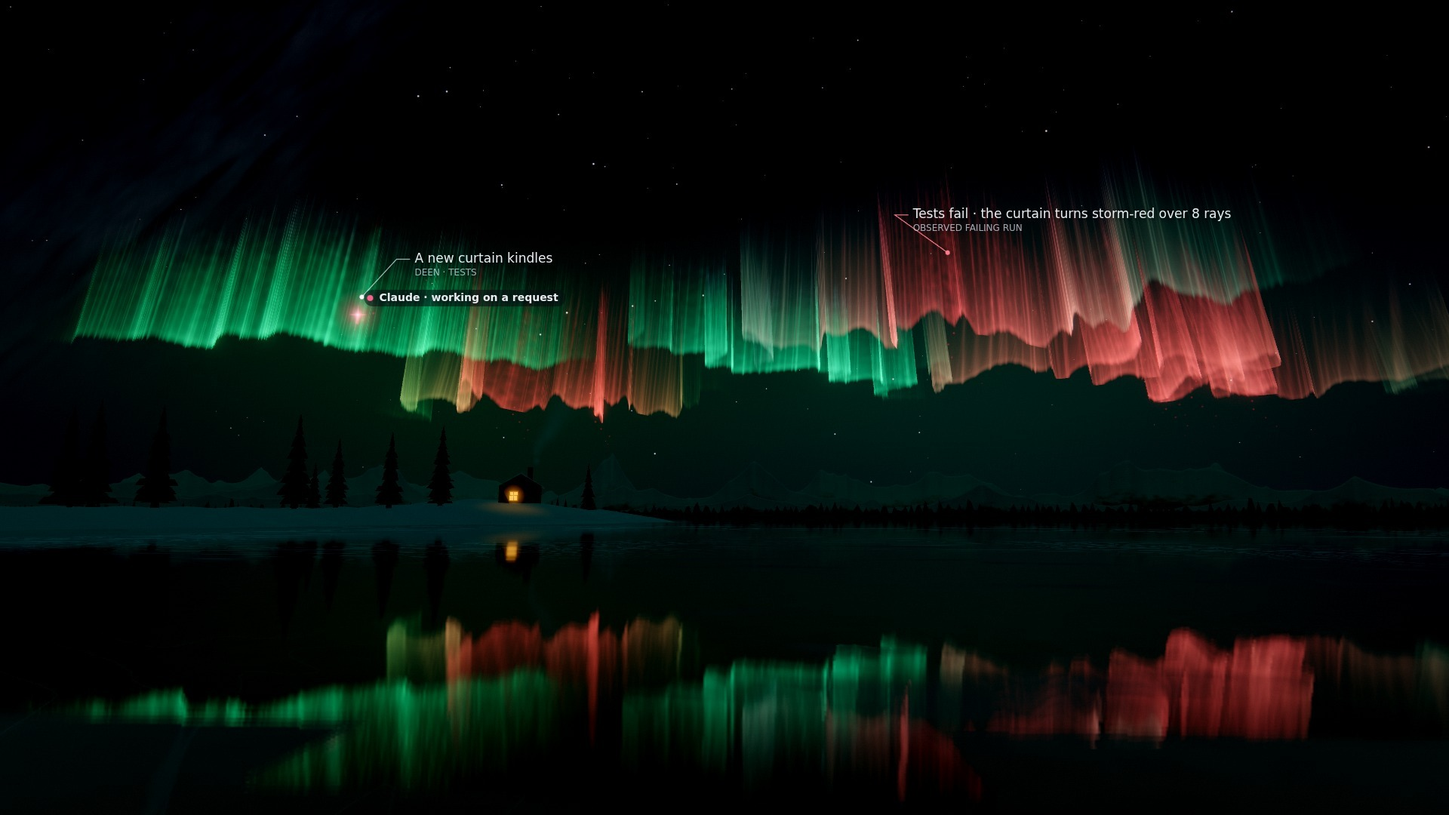
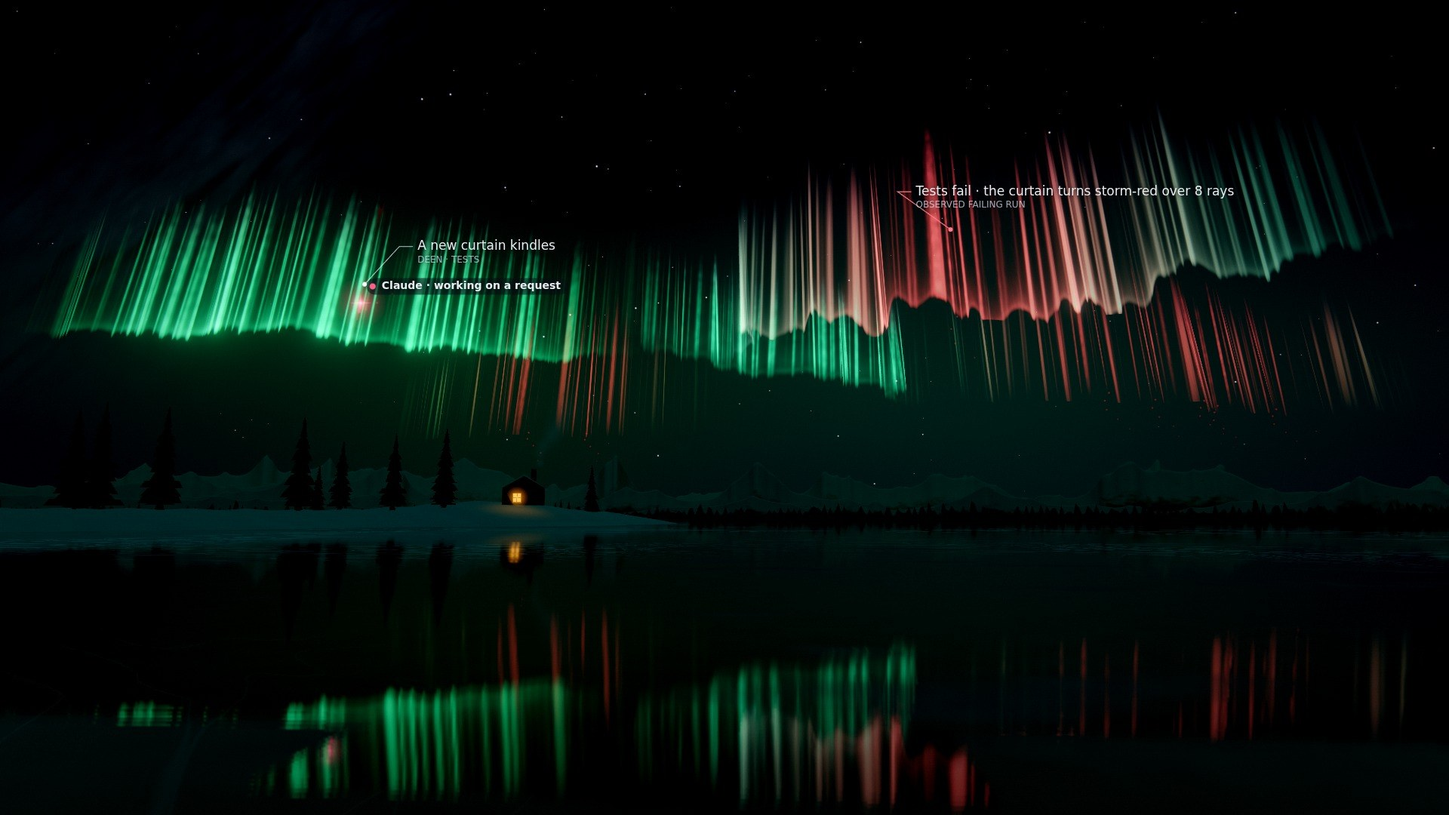
docs(aurora): the lower edges, the field lines, the corona and the mountains; new stills and timings
A section on the lower edges: what the false ridges were (a lit slab above each edge, not a dark band
below it, measured with the curtains hidden) and what they are now. The curtain's light, the field
lines (gentle arcs, a trace at rest, the wakes behind a wisp), the corona without a crown and the
far mountains' massifs and rock are described as built; all nine stills are rendered again from the
final code (the same commands); the GPU table compares this code with the first version measured in
the same session; the worlds qualification is the new run. What is not done says plainly what still
reads wrong: the plain sky under a stacked curtain's edge is still a darker strip, the curtains give
less light overall and the reflection is dimmer, the corona may read as sparse spokes, and in the
recorded projects the field lines are effectively invisible.

diff --git a/docs/worlds/aurora.md b/docs/worlds/aurora.md
@@ -16,28 +16,29 @@ Everything described here is implemented unless marked *planned*.
 ![Self at the end of its session](aurora-hero.jpg)
 
 *Self (92 files, a 20-minute recorded session) at its end: its curtains across the sky in greens and
-teals on its harmony, their rays reaching high with violet at their tops, the faint field lines of its dependencies
-above them, the cabin on the point among its spruces, and the whole night mirrored in the ice. Every still on this
+teals on its harmony, each with a bright lower edge and its rays reaching high with violet at their tops, the cabin on
+the point among its spruces, and the whole night mirrored in the ice. Every still on this
 page: GPU (AMD Radeon iGPU through WSL2 D3D12, ANGLE's EGL backend), the render lab on the film path at quality 0,
 1920×1080 (portraits 1080×1920), with Cinematic labels; one was cropped (stated below).*
 
 | | |
 |---|---|
 | ![A vertical frame](aurora-portrait.jpg) | ![The corona](aurora-corona.jpg) |
-| Lumen Recipes (17 files; six curtains, its tests among them) at the end, 9:16: a tall sky over its reflection, the cabin with the two lanterns its verified milestones left, their light doubled in the ice | The recovery, 2.5 s on, 9:16: the sky gathers into a corona overhead (rays converging on the magnetic zenith, green at their foot, magenta toward the zenith), the camera looks up, the land and the snow light with it; in Lumen the same moment earns the breakup |
+| Lumen Recipes (17 files; six curtains, its tests among them) at the end, 9:16: a tall sky over its reflection, the cabin with the two lanterns its verified milestones left, their light doubled in the ice | The recovery, 2.5 s on, 9:16: the sky gathers into a corona overhead (rays of uneven length converging on the magnetic zenith, green at their foot, magenta toward the zenith, their lower ends dissolving into the dark), the camera looks up, the land and the snow light with it; in Lumen the same moment earns the breakup |
 
 | | |
 |---|---|
 | ![The opening](aurora-opening.jpg) | ![Excalidraw](aurora-excalidraw.jpg) |
-| Lumen at 6 %: the first curtain kindles; two Claude sessions' wisps fly toward their work, reflected in the ice; the Milky Way, faint, upper left; the snow by starlight | Excalidraw (450 files in 9 subsystems, one baseline window), 30 s after its last event: a teal identity, its curtains dense with rays, 32 field lines |
+| Lumen at 6 %: the first curtain kindles; two Claude sessions' wisps fly toward their work, reflected in the ice; the Milky Way, faint, upper left; the snow by starlight | Excalidraw (450 files in 9 subsystems, one baseline window), 30 s after its last event: a teal identity, its curtains dense with rays; its 32 field lines are at rest, so they do not show |
 
 
 ## Reading the sky
 
-- **A curtain is a subsystem.** A sheet of light hanging along the magnetic field: a sharp, bright lower edge with a
-  fine hem, a bright band over it, fine rays carrying a dimmer light upward, fading into a violet to magenta fringe
-  toward the top. Its hue is the subsystem's own on the identity's harmony, always within the greens and teals an
-  aurora's foot can be. Its length grows with its files.
+- **A curtain is a subsystem.** A sheet of light hanging along the magnetic field: a sharp, bright lower edge (its hem
+  and a short fringe of light over it), then rays carrying the light upward with dark sky between them, fading into a
+  violet to magenta fringe toward the top. Below the lower edge the sky is what it would be without the curtain. Its hue
+  is the subsystem's own on the identity's harmony, always within the greens and teals an aurora's foot can be. Its
+  length grows with its files.
 - **A ray is a file.** Brighter streaks at fixed places along the curtain, as tall as the file's live symbols make them;
   between them, the aurora's own finer rays (ambient). A new file's ray ignites: a pulse runs up it. A removed file's
   ray fades over 1.6 s.
@@ -46,8 +47,9 @@ page: GPU (AMD Radeon iGPU through WSL2 D3D12, ANGLE's EGL backend), the render 
   low arc over the mountains, dimmed by the air near the horizon.
 - **Brightness and motion are the work.** The director's activity and the music's energy brighten the curtains and
   deepen a fast fold: a quiet arc becomes a substorm. A curtain whose files were edited lately is brighter still.
-- **Faint arcs between curtains are dependencies**: field lines from the importing ray up along the field and down
-  into the imported ray.
+- **Long, gentle arcs between curtains are dependencies**: field lines from the importing ray to the imported one.
+  At rest they are barely there (with many dependencies, not drawn at all); one shows while it draws itself in, behind a
+  pulse when the importer's file fires, and behind a wisp flying along it, fading after.
 
 ## Mapping: what drives what
 
@@ -63,7 +65,7 @@ history, see [Determinism](#determinism)) or the recipe; ambient life is labelle
 | File born / removed | The ray **ignites** (a pulse runs up it in pale green, 3.6 s) / **fades** (1.6 s) | From the model's own times |
 | File state: stressed | The curtain turns **storm-red** around the stressed rays (their neighbourhood of 1.6 spacings + 70 units): deep red, a ragged lower edge, a faster flicker, its folds deeper | Sets in over 1.5 s, stays while stressed, clears over 2.5 s after the files pass |
 | File state: validated | A pale valid tone at the hem near the ray | |
-| Dependency: `model.links` across subsystems | A **field line**: a faint arc (a cubic from a third of the way up each ray, rising along the field) | At most 32, newest first, dimmer the more there are; draws itself over 2.4 s, fades over 1.6 s; a pulse runs along it when the importer's file fires |
+| Dependency: `model.links` across subsystems | A **field line**: a long, gentle arc (a cubic from a third of the way up each ray, lifted along the field by a sixth of its span) | At most 32, newest first. At rest a trace (alpha 0.005, less the more there are: with more than about 11 it is not drawn); draws itself over 2.4 s and settles to rest over 4 s; fades over 1.6 s; a pulse runs along it when the importer's file fires, the line lit behind the pulse; a wisp flying along it lights it behind itself (its wake, about 2 s) |
 | Agent presences (`frame.agents`) and their tool events (`touch.js`) | A **wisp** in the agent's CAST colour and shape | See [Agents](#agents) |
 | Director commands (`effect`) | The vocabulary below | Never time alone |
 | `director.lasting()` | A **lantern** on the shore for each verified milestone (a smaller candle for a validated refactor), in order of first occurrence, at most 8 | Lasting; rebuilt from the record after a seek |
@@ -80,12 +82,19 @@ history, see [Determinism](#determinism)) or the recipe; ambient life is labelle
   curtain by 50–65°, so it sweeps from the horizon up into the sky; the others by 9–30°) and bowing away from the shore
   at its ends. Its rays run along the magnetic field, which leans north toward the magnetic zenith at 77°: in
   perspective they converge toward it. Three folds of the sheet (wavelengths of about 600, 220 and 90 units: a slow one,
-  a middle one and a fast one that deepens with the work) move along it; they ease toward the ends, and their depth
-  scales with the curtain's distance so every curtain folds through about the same angle.
-- **The light of a curtain**: a thin bright hem, a bright band (falling off over about a tenth of the curtain's height)
-  and a dim body that the rays carry upward, with knots along the lower edge (brighter and dimmer stretches drifting);
-  toward the top, the fringe colour. Fine rays come from a striation texture of discrete rays of varied width (two
-  drifting sets; the faster takes a larger share as the work quickens) and flicker along their length. Where a fold
+  a middle one and a fast one) move along it; the slow one makes the long S-curves and the edge-on pleats, the middle
+  and fast ones are shallow at rest (so a lower edge is a smooth line, not a jagged one) and deepen with the work. They
+  ease toward the ends, and their depth scales with the curtain's distance so every curtain folds through about the
+  same angle; a far, low curtain folds less.
+- **The light of a curtain**: a thin bright hem and a short fringe of diffuse light over it (falling off over about a
+  thirtieth of the curtain's height), with knots along the lower edge (brighter and dimmer stretches drifting); above
+  it the light is in the rays, which carry it upward with dark sky between them; toward the top, the fringe colour, in
+  the rays. Below the lower edge the curtain adds nothing but its rays' slight dip and the low air's glow (the sky's
+  lobes): stars show there and the airglow runs on down to the mountains. Rays come from a striation texture of discrete
+  rays of varied width (two drifting sets; the faster takes a larger share as the work quickens; mipmapped, so on a far
+  curtain they average out instead of shimmering), with broad bands varying their strength along the curtain, and
+  flicker along their length. A far, low curtain (its lower edge under about 11.5° up, fully below 6.3°) is seen through
+  more air: its foot is soft and broken by its rays, with no hem line. Where a fold
   turns edge-on the sheet is brighter (the line of sight runs through more of it, up to three times). The ends and the
   top fade over a long, perceptual distance: under the tone curve a tenth of a bright curtain still shows.
 - **Palette** (its own stream, `auroraPalette` in `engine/recipe.js`): the curtains' foot (`primary`: emerald, green or
@@ -102,8 +111,9 @@ history, see [Determinism](#determinism)) or the recipe; ambient life is labelle
   aurora's light). Drifted snow in long wind-aligned patches with sastrugi and a thin dusting around them; faint
   wandering cracks in some places, catching the light, fading with distance.
 - **The land**: a spruce treeline along the far shore; two to five mountain layers on arcs around the lake, each
-  farther, taller and paler (their snow on the upper slopes and shoulders, gullies down the fall line, lit by the
-  aurora from across the lake, the farther ones melting into the horizon's glow); the near bank at the camera's feet
+  farther, taller and paler, now and then a massif standing above its range (their snow on the upper slopes and
+  shoulders, gullies down the fall line, bare rock on the steepest faces, lit by the aurora from across the lake, the
+  farther ones melting into the horizon's glow); the near bank at the camera's feet
   and a point running out toward the cabin, snow over a heightfield; a few spruces on the point (camera-facing
   silhouettes with snowy tiers); the cabin (log walls, a snowy gable roof, a chimney with faint smoke, one warm window
   that casts a pool of light on the snow and a streak in the ice).
@@ -117,6 +127,22 @@ history, see [Determinism](#determinism)) or the recipe; ambient life is labelle
   tilts it a little warm and desaturates; a breakup lifts exposure and bloom and flashes. The recipe's finish
   (Cinematic by default) applies on top.
 
+## The lower edges
+
+The first version's stills showed a dark band under the curtains whose jagged top followed their lower edges exactly,
+like extra mountain ranges stacked in the sky. Rendering the same frame with the curtains hidden (Excalidraw, the
+film path near its end) showed the band was never dark: under each lowest edge the sky measured the same with and
+without the curtains (the median difference over 18 columns 0.6 of 255 in sRGB luma, larger only where another curtain's
+rays cross). The cause was above the edge: a bright band falling off over a tenth of the curtain's height, a dim body
+falling off over almost half of it with a constant floor, and the files' rays adding a broad fill, made each curtain a
+lit slab 3–5 times brighter than the sky; its thin hem was hardly brighter than the slab (the edge's luma 1.25 times
+the light 30–70 px above it, median), so the edge read as the bottom of a lit shape, a silhouette, and stacked curtains
+gave stacked silhouettes. Now the diffuse light is a short fringe over the hem and the rest is in the rays: in the same
+frame the edge is 1.44 times the light above it (median), and the sky under it is the curtain-free sky or brighter
+(median +14 of 255, at most +25: the farther curtains' rays crossing it), never darker. Far, low
+curtains have soft feet without a hem, and the middle and fast folds are shallow at rest, so a lower edge is a smooth
+fringe rather than a jagged ridge.
+
 ## Layout
 
 Pure functions of the recipe, the model and the time (`aurora-layout.js`, no THREE; pinned in `tests/aurora.test.js`):
@@ -124,10 +150,10 @@ Pure functions of the recipe, the model and the time (`aurora-layout.js`, no THR
 1. **The model's history** (`prepare`, shared with Temporal Terrain's `terrain-layout.js`): per file its birth,
    removal, symbol births and removals, and state segments, sorted.
 2. **The curtains at a moment** (`curtainsAt`): each subsystem with a live file, in order of birth, with its place
-   (`placeOf`: distance, azimuth, tilt, lower-edge altitude 235 ± 8 % units, height 560 · `aurora.height` ± 14 %, a fold
-   seed), its half-length, and its rays (signed place along the trace, how alive, live symbols, height, storm and
-   validated shares). Every birth and removal rises over a fixed span (2.6 s for a ray, 1.6 s for a fade), so nothing
-   pops.
+   (`placeOf`: distance, azimuth, tilt, lower-edge altitude 235 ± 8 % units (up to 24 % lower for the farthest, so they
+   rise from behind the far shore), height 560 · `aurora.height` ± 14 %, a fold seed), its half-length, and its rays
+   (signed place along the trace, how alive, live symbols, height, storm and validated shares). Every birth and removal
+   rises over a fixed span (2.6 s for a ray, 1.6 s for a fade), so nothing pops.
 3. **The folds** (`foldAt`, the JS twin of the vertex shader's `fold`; `curtainPoint`): a ray's foot, a wisp's goal, a
    field line's ends and a label stand exactly where the shader draws the sheet.
 4. **Field lines** (`fieldLine`), **lantern places** (`lanternAt`: along the point's lake shore, from near the cabin
@@ -154,7 +180,10 @@ Pure functions of the recipe, the model and the time (`aurora-layout.js`, no THR
   never makes it jump (tested: the largest step in 50 ms stays under 120 units; with the look-back disabled it was 908).
   Between curtains joined by field lines (at most three, breadth first), once it had reached its previous goal, it flies
   along them (1.8 to 4.5 s at 520 units a second); a change that keeps its goal at the same ray lets it fly on along the
-  lines it is on; otherwise it flies a lifted arc up through the night.
+  lines it is on; otherwise it flies a lifted arc up through the night. Along field lines it leaves a **wake**: the
+  stretch of line it has flown lights behind it in its colour and fades (about 2 s after it passed); the wake of a move
+  cut short by the next one fades on from where it ended. Both come from the same look-back, so they are as pure as the
+  wisp's place (tested: during and after a journey between two curtains the line is lit, and 20 s later nothing is).
 - **Subagents** are smaller (0.6) and tethered to their parent's wisp by a faint filament in their colour (a shallow arc),
   a bead of light running down it from the parent every five seconds, while the data names the parent and the parent
   has not ended.
@@ -173,7 +202,7 @@ Pure functions of the recipe, the model and the time (`aurora-layout.js`, no THR
 | `subsystem.connected` (field-line) | The field line draws itself from the importer over 2.4 s |
 | `validation.passed` (pulsate) | **Pulsating patches** sweep the covered curtain from one end to the other: patches of pale green-cyan light blinking on and off behind a moving front, for about six seconds |
 | `validation.failed` (storm) | The covered curtain turns **storm-red** and ragged around the stressed rays, and stays so while they are stressed; red embers fall from its lower edge as it breaks. Never gold, never a sweep |
-| `validation.recovered` (corona) | **The sky gathers into a corona**: a folded ring of curtain overhead, its rays converging on the magnetic zenith, green at their foot and the fringe colour toward the zenith; it gathers over about two seconds (the ring contracts), holds, and settles over four (it widens and fades); the camera looks up into it and the land lights with it |
+| `validation.recovered` (corona) | **The sky gathers into a corona**: a barely folded ring overhead whose rays converge on the magnetic zenith, green at their foot and the fringe colour toward the zenith. It has no sheet at its foot: its rays (twice as dense as a curtain's, with a little glow between them) start at uneven heights and dissolve downward, and their lengths vary along the ring. It gathers over about two seconds (the ring contracts), holds, and settles over four (it widens and fades); the camera looks up into it and the land lights with it |
 | `repository.checkpoint` (meteor) | A **meteor** crosses the sky (its direction from the commit's moment) and the cabin's window flares |
 | `milestone.achieved` (breakup), `refactor.validated` (settle) | The **earned breakup** or a glow on the subject's curtain (below); a lantern (a candle for a refactor) stays on the shore |
 | `world.expanded` (widen) | The view widens a little and a surge runs along every curtain |
@@ -189,9 +218,9 @@ In Lumen Recipes the first verified milestone (a recovery) earns it, together wi
 | | |
 |---|---|
 | ![A failing run](aurora-storm.jpg) | ![An agent's touch](aurora-touch.jpg) |
-| A failing run, 2.5 s on (Lumen): the covered curtains turn storm-red around their stressed rays, their lower edges ragged, red doubled in the ice; the label says so; they stay red until the files pass | An edit, 0.5 s on (Lumen): Claude's wisp at the ray it edits, the ray ignited in its colour; another ray, touched a moment before, still lit |
+| A failing run, 2.5 s on (Lumen): the covered curtains turn storm-red around their stressed rays, their lower edges ragged, red doubled in the ice; the label says so; they stay red until the files pass | An edit, 0.5 s on (Lumen): Claude's wisp at the ray it edits; a ray touched a moment before, under the near curtain to the left, still lit in its colour (faint: the ignition is a thin streak among bright rays) |
 | ![Lanterns](aurora-lanterns.jpg) | ![A wisp on a field line](aurora-path.jpg) |
-| Lumen 20 s after its last event (a crop, 960×540 of the 1920×1080 frame): the cabin's window and the two lanterns of its verified milestones on the point, their streaks in the ice | **A constructed scene**: a scratch copy of the Lumen recording with a session added that edits files in three subsystems, about 1.5 s into its journey: *Claude 2* flies along the field line between two curtains, its trail behind it. The recorded datasets never move an agent between curtains a field line joins |
+| Lumen 20 s after its last event (a crop, 960×540 of the 1920×1080 frame): the cabin's window and the two lanterns of its verified milestones on the point, their streaks in the ice | **A constructed scene**: a scratch copy of the Lumen recording with a session added that edits files in three subsystems, about 1.5 s into its journey: *Claude 2* flies along the gentle arc of the field line between two curtains, its trail and the line's wake behind it. The recorded datasets never move an agent between curtains a field line joins |
 
 *Stills: `qualification/visual/lab.js --dataset self --family aurora --at 1`, `--dataset lumen --family aurora --at
 0.06,1 --touch --idle 20 --events --after 2.5 --warm 6` (and `--size 1080x1920`), `--dataset excalidraw --idle 30`; the
@@ -254,46 +283,53 @@ after a seek; lanterns come back from the director's record. Caches (the prepare
 lanterns) only avoid recomputing pure functions.
 
 `qualification/visual/worlds.qual.js --only determinism,idle --families aurora --size 960x540 --fps 15 --tag aurora` on
-SwiftShader, on a temporary copy of the datasets, at the final code: **8/8**
-(`qualification/results/visual/worlds-qualification-aurora.json`): the same frame on Self in two sessions whatever the
-second played before (`323361baad6ac03a` both); idle for 90 s after Lumen Recipes' last event the image keeps changing
-(mean |Δluma| between samples 30 s apart: 4.05, 3.21, 3.10 of 255) while no structure, intent, effect or lasting change
-appears and the director reports idle; no page errors; 49 distinct label strings over the whole Lumen session
-(cinematic and stream) with no path, file name, identifier or folder name; switching between the six worlds 12 times
-leaves GPU geometries (29) and textures (19) at their level. An earlier run of the same command, before the agents'
-moves began where the wisp is, also passed 8/8. `qualification/visual/catalogue.qual.js --families aurora --tag aurora`
-(SwiftShader, 960×540): **2/2** (`catalogue-qualification-aurora.json`): with every parameter at its minimum and at its
-maximum the Lumen recording renders without page errors, mean luma 43–44 and 72–89. In Node,
-`tests/aurora.test.js` (16 tests) pins the layout's purity, the history rebuild, the headless state at a moment
-whatever was drawn before, and that a wisp never jumps.
+SwiftShader, on a temporary copy of the datasets, at the final code of the second pass (the lower edges, the field
+lines, the corona, the mountains): **8/8** (`qualification/results/visual/worlds-qualification-aurora.json`): the same
+frame on Self in two sessions whatever the second played before (`143474cd34cd158b` both); idle for 90 s after Lumen
+Recipes' last event the image keeps changing (mean |Δluma| between samples 30 s apart: 4.13, 3.33, 3.38 of 255) while no
+structure, intent, effect or lasting change appears and the director reports idle; no page errors; 50 distinct label
+strings over the whole Lumen session (cinematic and stream) with no path, file name, identifier or folder name;
+switching between the six worlds 12 times leaves GPU geometries (29) and textures (19) at their level. The first version
+passed the same 8/8 (`323361baad6ac03a`), as did a run before the agents' moves began where the wisp is.
+`qualification/visual/catalogue.qual.js --families aurora --tag aurora` (SwiftShader, 960×540): **2/2**
+(`catalogue-qualification-aurora.json`): with every parameter at its minimum and at its maximum the Lumen recording
+renders without page errors, mean luma 43–44 and 72–89 (run on the first version, not again after the second pass). In
+Node, `tests/aurora.test.js` (17 tests) pins the layout's purity, the history rebuild, the headless state at a moment
+whatever was drawn before, that a wisp never jumps, and that field lines are gentle arcs, barely there at rest and lit
+only behind a wisp's journey.
 
 ## Performance
 
 GPU time per frame (the host's timer: background, the reflection pass, scene, post, bloom, grade), AMD Radeon iGPU
 through WSL2 D3D12, 1920×1080, the film path at a fixed quality: six readings (each after 20 more frames at the same
-moment) after 3 s of warm-up, at 60 % of Lumen Recipes, 50 % of Self and the end of Excalidraw. Two runs on the final
-code, the machine otherwise quiet (load average 1–5); means, with the range of all twelve readings:
+moment) after 3 s of warm-up, at 60 % of Lumen Recipes, 50 % of Self and the end of Excalidraw. Means, with the range of
+the six readings. The second pass was measured against the first version in the same session (the first version's
+files checked out, then this code), the machine otherwise quiet (load average 2–4):
 
-| Project | Quality 0 | Quality 1 | Quality 2 | Quality 3 |
-|---|---|---|---|---|
-| Lumen (17 files, 6 curtains) | 13.8–13.9 ms (13.5–14.6) | 10.5 (10.4–10.6) | 6.3–6.5 (6.1–6.7) | 3.6–3.9 (3.5–4.1) |
-| Self (92 files, 9 curtains at 50 %) | 14.8–15.0 (14.6–15.6) | 11.2 (11.0–11.5) | 6.8–6.9 (6.7–7.1) | 4.1–4.5 (4.0–4.8) |
-| Excalidraw (450 files, 9 curtains) | 15.1–16.6 (15.0–17.1) | 11.4–12.1 (11.0–12.7) | 7.1 (6.8–7.5) | 4.3–4.5 (4.1–4.7) |
+| Project | | Quality 0 | Quality 1 | Quality 2 | Quality 3 |
+|---|---|---|---|---|---|
+| Lumen (17 files, 6 curtains) | first version | 13.80 ms (13.42–14.67) | 10.41 | 6.26 | 3.80 |
+| | second pass | 13.83, 13.87 (13.43–14.65) | 10.53, 10.47 | 6.44, 6.38 | 3.73, 3.74 |
+| Self (92 files, 9 curtains at 50 %) | first version | 14.78 (14.62–15.28) | 11.03 | 6.85 | 3.98 |
+| | second pass | 14.59, 14.60 (14.37–15.05) | 11.13, 11.13 | 6.82, 6.69 | 3.89, 3.96 |
+| Excalidraw (450 files, 9 curtains) | first version | 15.01 (14.80–15.21) | 11.39 | 7.07 | 4.10 |
+| | second pass | 14.76, 14.86 (14.53–15.15) | 11.47, 11.43 | 7.10, 6.95 | 4.19, 4.20 |
 
-Excalidraw's second run read 1.5 ms higher than its first and third at quality 0 (another run, minutes later, gave 15.1
-again; an earlier quiet run of the code before the last commit gave 15.0); the other two projects agreed within 0.3 ms.
-CPU (`updateMs`): 0.5–0.6 ms on Lumen and Self, 0.9 on Excalidraw (quality 1: 1.3). Draw calls: 9 in the scene.
+The second pass's two runs bracket its last two changes (fuller rays, a brighter ignition). At quality 0 it is 0.15–0.4
+ms cheaper on Self and Excalidraw and within 0.1 ms on Lumen, inside the spread of the readings; at qualities 1–3 the
+differences are within ±0.2 ms. CPU (`updateMs`): 0.4–0.5 ms on Lumen and Self, 0.8 on Excalidraw. Draw calls: 9 in
+the scene (8 when no field line or ribbon is drawn).
 
 How it got there, profiling by elimination (hiding parts of the world in the film page; Lumen Recipes at 60 % and Self
-at its end, quality 0, during development, with a debugging handle since removed): with every object hidden, the host's pipeline and the half-resolution sky alone take about 8.5–9
-ms on this GPU at quality 0 (6.5 at quality 1, which drops MSAA). The first version measured 20.9 ms on Lumen. The
-curtains cost 4.4 ms with up to 512 columns a curtain; with a trivial fragment shader they still cost 3.6, so the cost
-was not shading but the thin triangles where folds turn edge-on and the 4× MSAA blending (at quality 1 the same
-curtains cost 2.7): 1,920 columns shared out among the curtains (48–224 each) and 10 rows (the vertical light is per
-fragment) brought them to about 3 ms. The reflection pass costs about 1.5 ms (a third of the resolution, drawn only
-below the horizon, without stars or field lines); the ice about 1 ms; the mountains and the land about 0.6 (a `discard`
-for the reflection had disabled early depth rejection there: vertex clamping replaced it); stars, wisps and ribbons
-about 0.3–0.5.
+at its end, quality 0, during development, with a debugging handle since removed): with every object hidden, the host's
+pipeline and the half-resolution sky alone take about 8.5–9 ms on this GPU at quality 0 (6.5 at quality 1, which drops
+MSAA). The first version measured 20.9 ms on Lumen. The curtains cost 4.4 ms with up to 512 columns a curtain; with a
+trivial fragment shader they still cost 3.6, so the cost was not shading but the thin triangles where folds turn edge-on
+and the 4× MSAA blending (at quality 1 the same curtains cost 2.7): 1,920 columns shared out among the curtains (48–224
+each) and 10 rows (the vertical light is per fragment) brought them to about 3 ms. The reflection pass costs about 1.5
+ms (a third of the resolution, drawn only below the horizon, without stars or field lines); the ice about 1 ms; the
+mountains and the land about 0.6 (a `discard` for the reflection had disabled early depth rejection there: vertex
+clamping replaced it); stars, wisps and ribbons about 0.3–0.5.
 
 | Quality | What changes |
 |---|---|
@@ -333,16 +369,22 @@ Films always render at quality 0.
   tests and by the idle qualification's frame differences, not by eye.
 - **No digital life.** The brief's stretch (foxes and hares leaving tracks, a snowy owl, luminous life under the ice) was
   not started; the preview has no `life` values and the catalogue no `life.*` group.
-- **Stacked lower edges.** Where several curtains overlap (Self, Excalidraw), the dark sky between one curtain's bright
-  lower edge and the next can read as a ridge of mountains in the sky. A glow in the low sky under the curtains and
-  knotted, uneven lower edges soften it; it is not gone.
-- **The corona** is a folded ring of curtain overhead: from below, its folds give its lower edge a scalloped crown,
-  softened but still regular. In a landscape frame the camera looks so far up that the horizon leaves the frame for a few
-  seconds (a portrait keeps both). In Lumen Recipes the earned breakup coincides with the recovery's corona; a breakup on
-  its own was not seen.
+- **Stacked lower edges.** The false ridges are gone (see [The lower edges](#the-lower-edges)), but where curtains stack
+  (Self, Excalidraw, Lumen's last minutes) the plain sky under one curtain's bright lower edge, above the next curtain's
+  light or the airglow, is still a darker strip whose top follows that edge. It now reads as sky (stars in it, rays of
+  the farther curtains crossing it), not as mountains, at full size; at thumbnail size it can still read as a band.
+- **Less light overall.** With the light in the rays instead of a lit body, the curtains give 0.6–1.1 times their
+  earlier mean light in the sky (Excalidraw 0.64, Lumen 0.84, Self 1.08; the brightest 1 % 0.87–1.25 times), and the
+  ice's reflection 0.56–0.67 times: the reflected rays, drawn at a third of the resolution, blur together less brightly
+  than the old lit body did. Nobody else has judged whether the curtains now look too sparse or combed.
+- **The corona** has no crown any more; its rays are discrete spokes with a little glow between them, which may read as
+  too sparse beside a real corona's diffuse glow. In a landscape frame the camera looks so far up that the horizon
+  leaves the frame for a few seconds (a portrait keeps both). In Lumen Recipes the earned breakup coincides with the
+  recovery's corona; a breakup on its own was not seen.
 - **Field-line journeys** never happen in the recorded datasets (a scan of Lumen Recipes at 4 frames a second found
-  none); they were seen in the tests and in one constructed scene (above). Field lines are drawn between curtains only;
-  dependencies inside a subsystem are not drawn.
+  none); they and their wakes were seen in the tests and in one constructed scene (above). So in the recorded projects
+  the field lines show only while one draws itself in and behind a file's pulse; at rest they are effectively invisible.
+  Field lines are drawn between curtains only; dependencies inside a subsystem are not drawn.
 - **Music** was pinned against a stub clock in Node; it was not seen or heard with the real score in a film.
 - **Performance**: at quality 0 Self and Excalidraw measure about 15 ms on the AMD iGPU, under 16 ms and in the other
   worlds' range, but not far under it; the host's pipeline (MSAA, bloom, grade) and the half-resolution sky are about 9
@@ -353,8 +395,9 @@ Films always render at quality 0.
   run; nor a live session, the Explorer selection's pull on the view, or the stream label mode by eye.
 - **A tuned palette is held to an aurora**: the curtains' hues are clamped to 116–168° (foot) and 262–334° (fringe)
   whatever colour `palette.primary` or `palette.secondary` is tuned to, and the night's `deep` and `haze` are kept dark.
-- **The land is simple**: procedural mountain layers (their gullies can look regular at full size), one cabin and a
-  few spruces on the point; the near bank is mostly out of view (the camera stands at the water's edge for the
+- **The land is simple**: procedural mountain layers (a few massifs and bare rock on the steepest faces since the
+  second pass; the farther layers are still pale low bands, and their gullies can look regular at full size), one cabin
+  and a few spruces on the point; the near bank is mostly out of view (the camera stands at the water's edge for the
   reflection). The reflection is drawn at a third of the resolution and blurred along the vertical: reflected rays are
   soft. Stars and field lines are not reflected (they are faint there, and the pass is cheaper without them).
 - **Portraits** have a band of starry sky above the curtains, and the ice nearest the camera (which reflects the empty

diff --git a/docs/WORLDS.md b/docs/WORLDS.md
@@ -274,17 +274,18 @@ two curated looks; adding it changed no existing identity, and the owner accepte
 ### Aurora (preview)
 
 A polar night over a frozen lake, and the software is the aurora. Subsystems are curtains of light across the sky,
-folded draperies hanging along the magnetic field (a sharp bright lower edge, fine rays, green to teal at their foot and
-violet to magenta toward their tops), each in its own hue on the identity's harmony, layered in depth by order of birth
+folded draperies hanging along the magnetic field (a sharp bright lower edge, rays carrying the light upward with dark
+sky between them, green to teal at their foot and violet to magenta toward their tops), each in its own hue on the identity's harmony, layered in depth by order of birth
 and as long as their files make them; files are the rays inside a curtain, as tall as their live symbols, igniting when
-they are born and fading when removed; dependencies between subsystems are faint field lines. Agents are wisps in their
+they are born and fading when removed; dependencies between subsystems are long, gentle field lines, barely there at
+rest and lit behind a pulse or a wisp travelling along them. Agents are wisps in their
 provider's colour and shape: waiting, they hover low over the ice; at work they fly up to the ray they edit and their
-touch ignites it; between curtains joined by field lines they fly along them; a subagent is a smaller wisp tethered to
+touch ignites it; between curtains joined by field lines they fly along them, lighting the line behind them; a subagent is a smaller wisp tethered to
 its parent, and two agents on one file are two wisps meeting at its ray. The music ripples and folds the curtains on
 the bars (with the host's musical clock), their rays shimmer on the eighths the arrangement plays and a section's onset
 surges along them; the work's activity brightens them and quickens their folds. Passing tests send pulsating patches
 along a curtain; a failure turns it storm-red and ragged while its files are stressed; a recovery gathers the sky into
-a corona overhead; a commit is a meteor and flares the cabin's window; a verified milestone leaves a lantern on the
+a corona overhead, its rays converging on the magnetic zenith; a commit is a meteor and flares the cabin's window; a verified milestone leaves a lantern on the
 shore and can earn a rare auroral breakup. The lake is mirror ice that doubles it all, under mountains whose snow takes
 the aurora's colour. A preview: chosen only explicitly (the Visual Studio, the render lab's `--family aurora`, the web
 demo), never by the automatic choice; adding it changed no existing identity; no digital life. Design brief, stills,

diff --git a/CHANGELOG.md b/CHANGELOG.md
@@ -3,10 +3,11 @@
 ## Unreleased
 
 - **Aurora, a new world (preview):** a polar night over a frozen lake, and the software is the aurora. Subsystems are
-  curtains of light across the sky (folded sheets hanging along the magnetic field, a sharp bright lower edge, fine rays,
-  green to teal at their foot and violet to magenta toward their tops), each in its own hue, layered in depth by order of
+  curtains of light across the sky (folded sheets hanging along the magnetic field, a sharp bright lower edge, rays with dark
+  sky between them, green to teal at their foot and violet to magenta toward their tops), each in its own hue, layered in depth by order of
   birth and as long as their files; files are the rays inside them, as tall as their symbols, igniting when born;
-  dependencies are faint field lines. Agents are wisps that hover over the ice while waiting and fly up to ignite the ray
+  dependencies are long, gentle field lines, barely there at rest and lit behind a wisp
+  travelling along them. Agents are wisps that hover over the ice while waiting and fly up to ignite the ray
   they edit; subagents are tethered to their parent. Passing tests pulse along a curtain, a failure turns it storm-red
   while its files are stressed, a recovery gathers the sky into a corona overhead, a commit is a meteor, a verified
   milestone leaves a lantern on the shore and can earn a rare auroral breakup; the curtains ripple, shimmer and surge with
